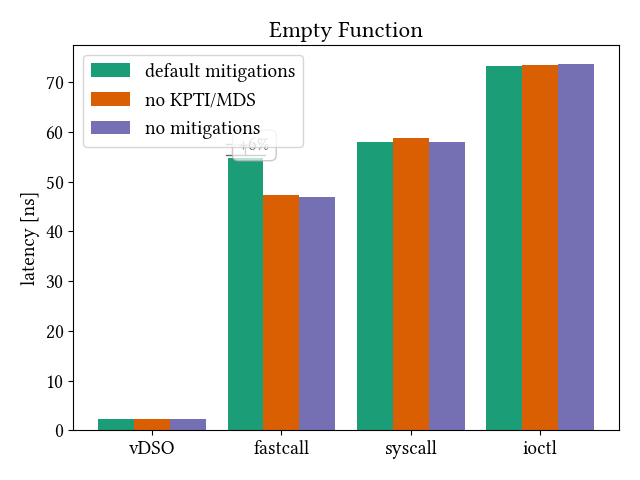
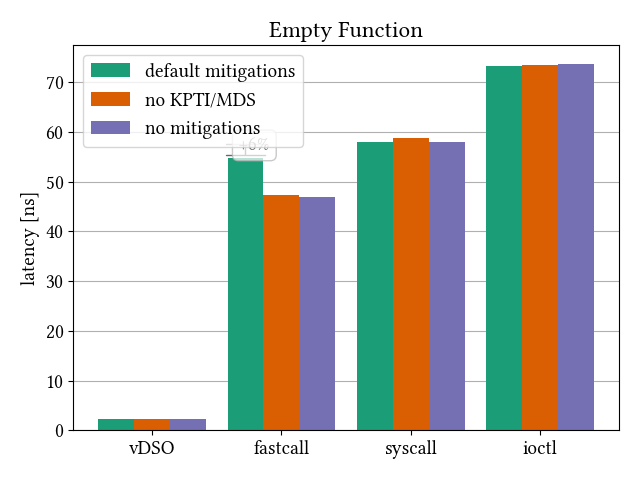
Added grid lines to plots

diff --git a/plots.py b/plots.py
@@ -28,6 +28,9 @@ METHODS = {"vdso": "vDSO", "fastcall": "fastcall",
            "syscall": "syscall", "ioctl": "ioctl"}
 """Mapping from file names of the tested methods to plot labels."""
 
+GRID_ENABLE = True
+"""Show horizontal grid lines."""
+
 ARROW_ENABLE = True
 """Draw an arrow indicating relative improvement."""
 
@@ -209,6 +212,8 @@ def plot_scenario(plot_file, title, y_label, results):
     if ARROW_ENABLE:
         draw_arrow(ax, x, results)
 
+    ax.set_axisbelow(True)
+    ax.yaxis.grid(GRID_ENABLE)
     ax.legend()
     fig.tight_layout()
     fig.savefig(plot_file)
